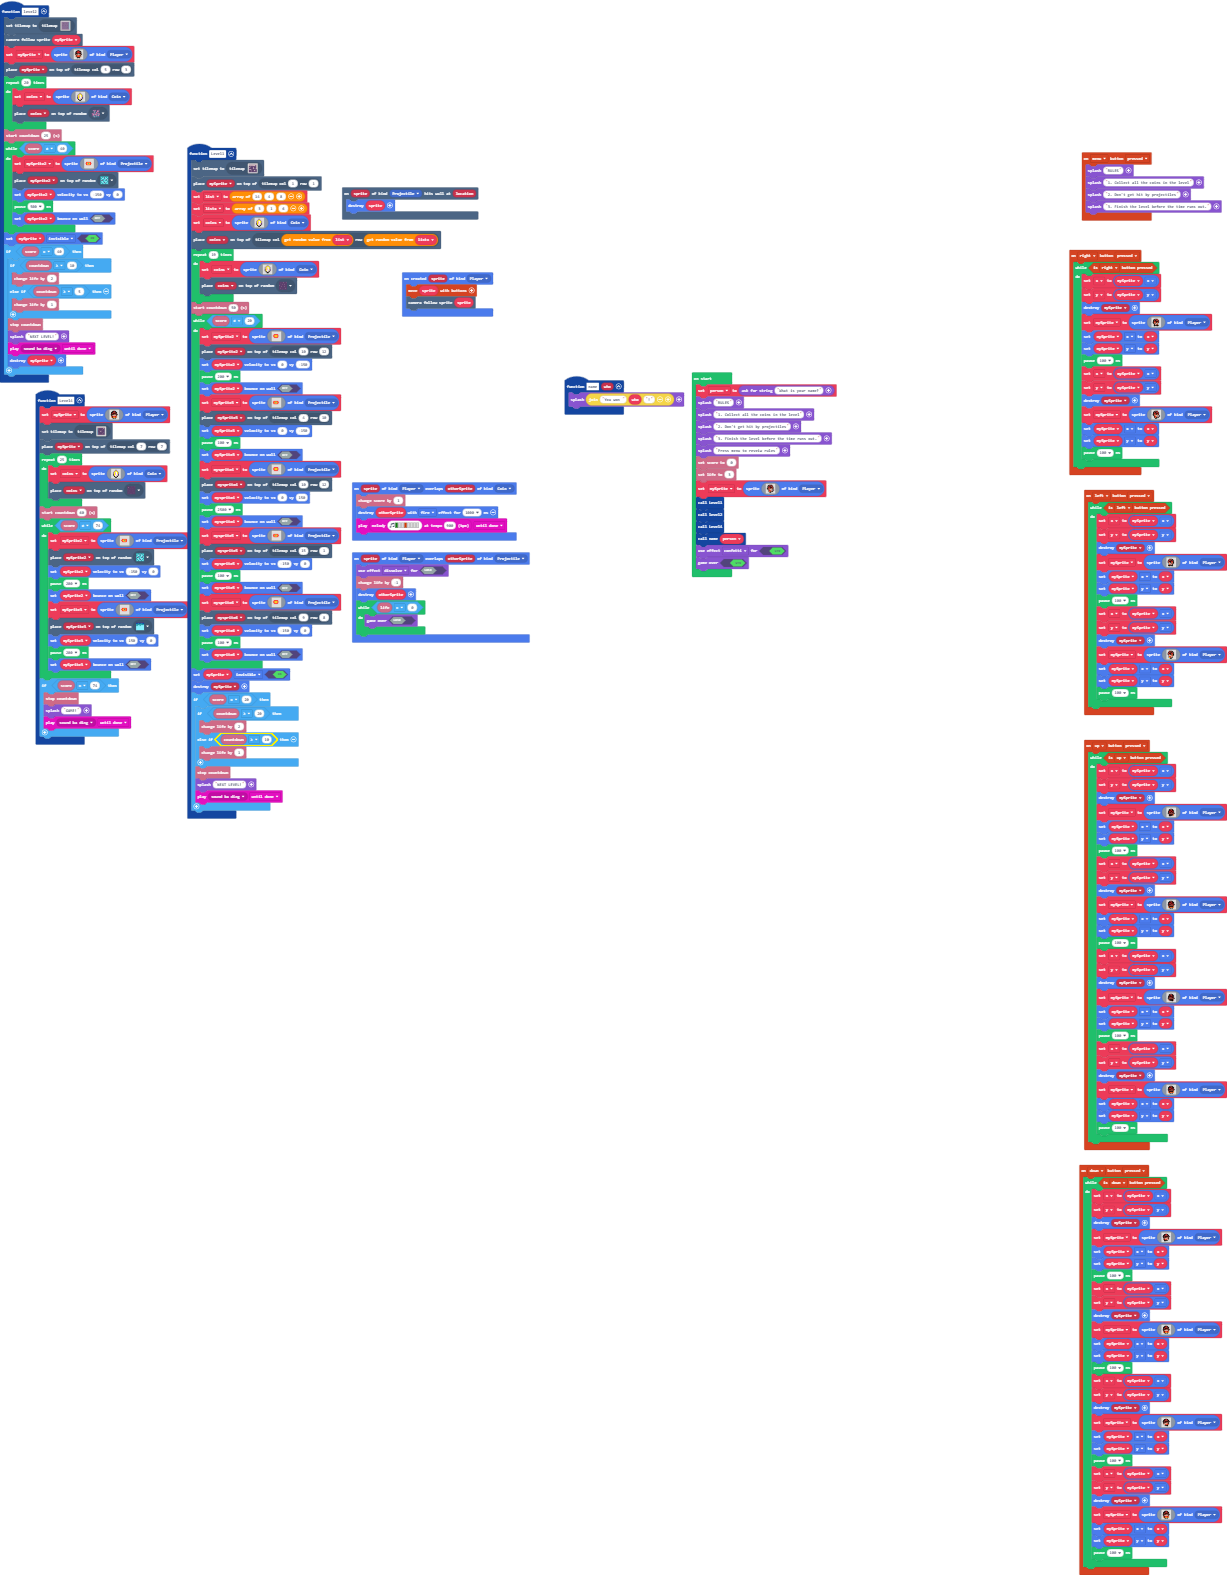
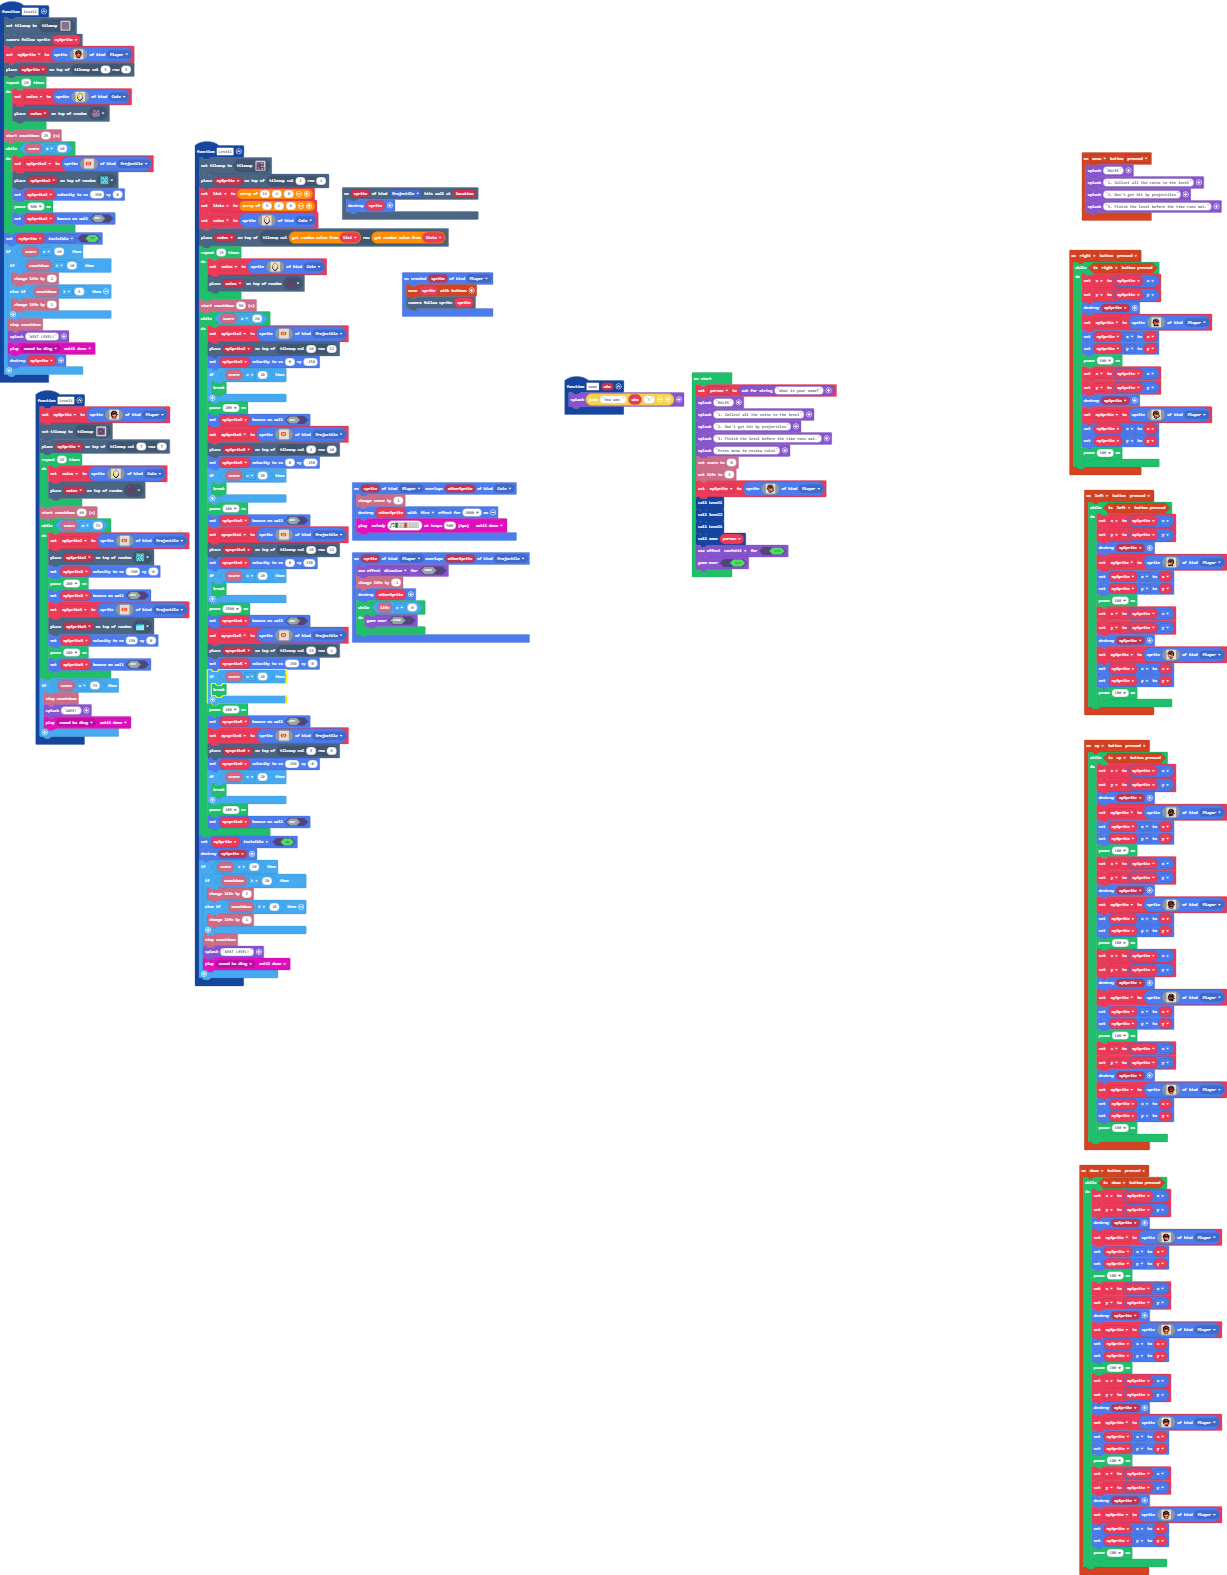
Update main.blocks, main.ts

Changed region(s): [[0.1548, 0.0933, 0.3716, 0.6533]]

diff --git a/main.ts b/main.ts
@@ -213,6 +213,9 @@ function Level1 () {
             `, SpriteKind.Projectile)
         tiles.placeOnTile(mySprite2, tiles.getTileLocation(10, 12))
         mySprite2.setVelocity(0, -150)
+        if (info.score() == 20) {
+            break;
+        }
         pause(200)
         mySprite2.setBounceOnWall(false)
         mySprite3 = sprites.create(img`
@@ -235,6 +238,9 @@ function Level1 () {
             `, SpriteKind.Projectile)
         tiles.placeOnTile(mySprite3, tiles.getTileLocation(4, 10))
         mySprite3.setVelocity(0, -150)
+        if (info.score() == 20) {
+            break;
+        }
         pause(100)
         mySprite3.setBounceOnWall(false)
         mysprite4 = sprites.create(img`
@@ -257,6 +263,9 @@ function Level1 () {
             `, SpriteKind.Projectile)
         tiles.placeOnTile(mysprite4, tiles.getTileLocation(10, 12))
         mysprite4.setVelocity(0, 150)
+        if (info.score() == 20) {
+            break;
+        }
         pause(2500)
         mysprite4.setBounceOnWall(false)
         mysprite5 = sprites.create(img`
@@ -279,6 +288,9 @@ function Level1 () {
             `, SpriteKind.Projectile)
         tiles.placeOnTile(mysprite5, tiles.getTileLocation(15, 1))
         mysprite5.setVelocity(-150, 0)
+        if (info.score() == 20) {
+            break;
+        }
         pause(100)
         mysprite5.setBounceOnWall(false)
         mysprite6 = sprites.create(img`
@@ -301,6 +313,9 @@ function Level1 () {
             `, SpriteKind.Projectile)
         tiles.placeOnTile(mysprite6, tiles.getTileLocation(9, 8))
         mysprite6.setVelocity(-150, 0)
+        if (info.score() == 20) {
+            break;
+        }
         pause(100)
         mysprite6.setBounceOnWall(false)
     }
